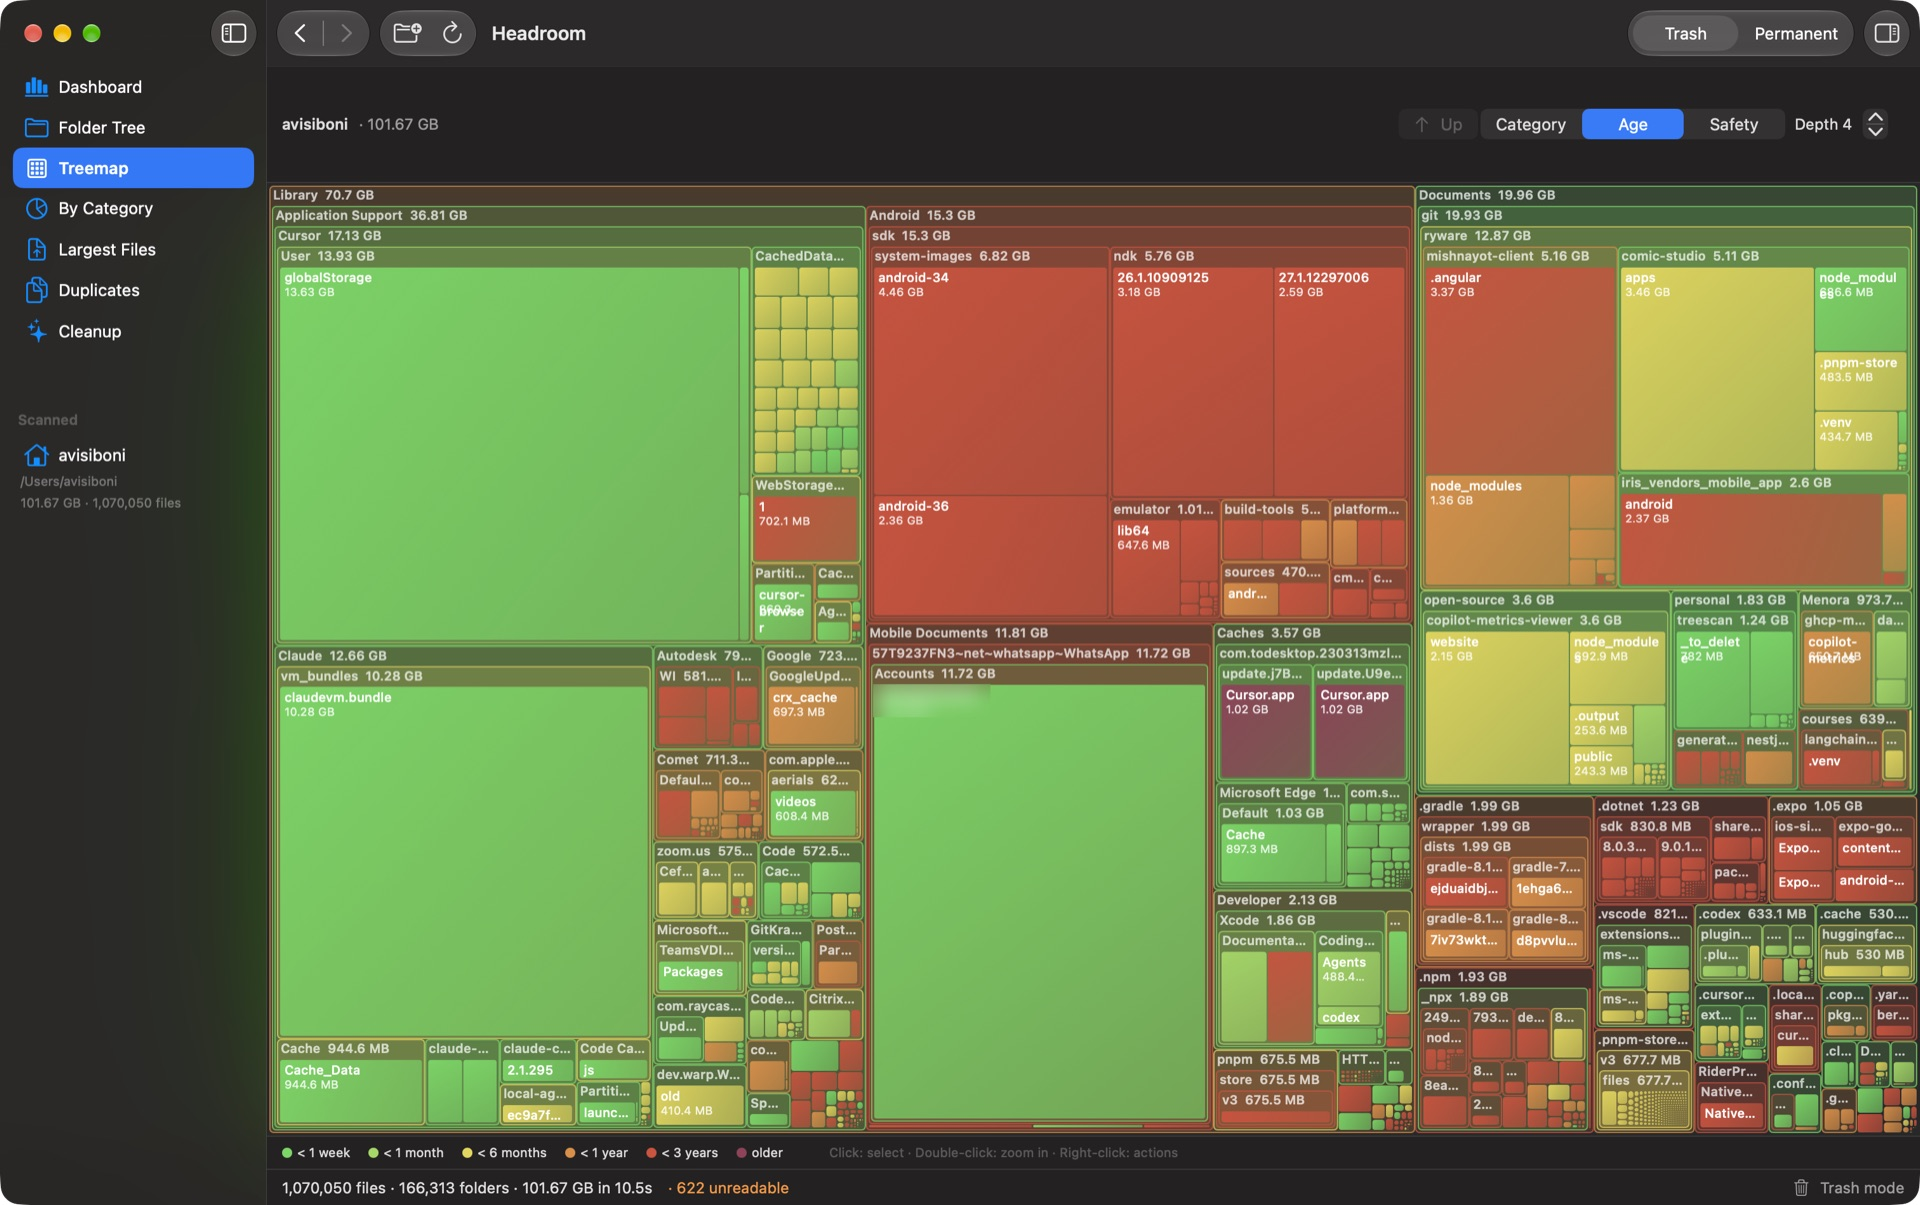
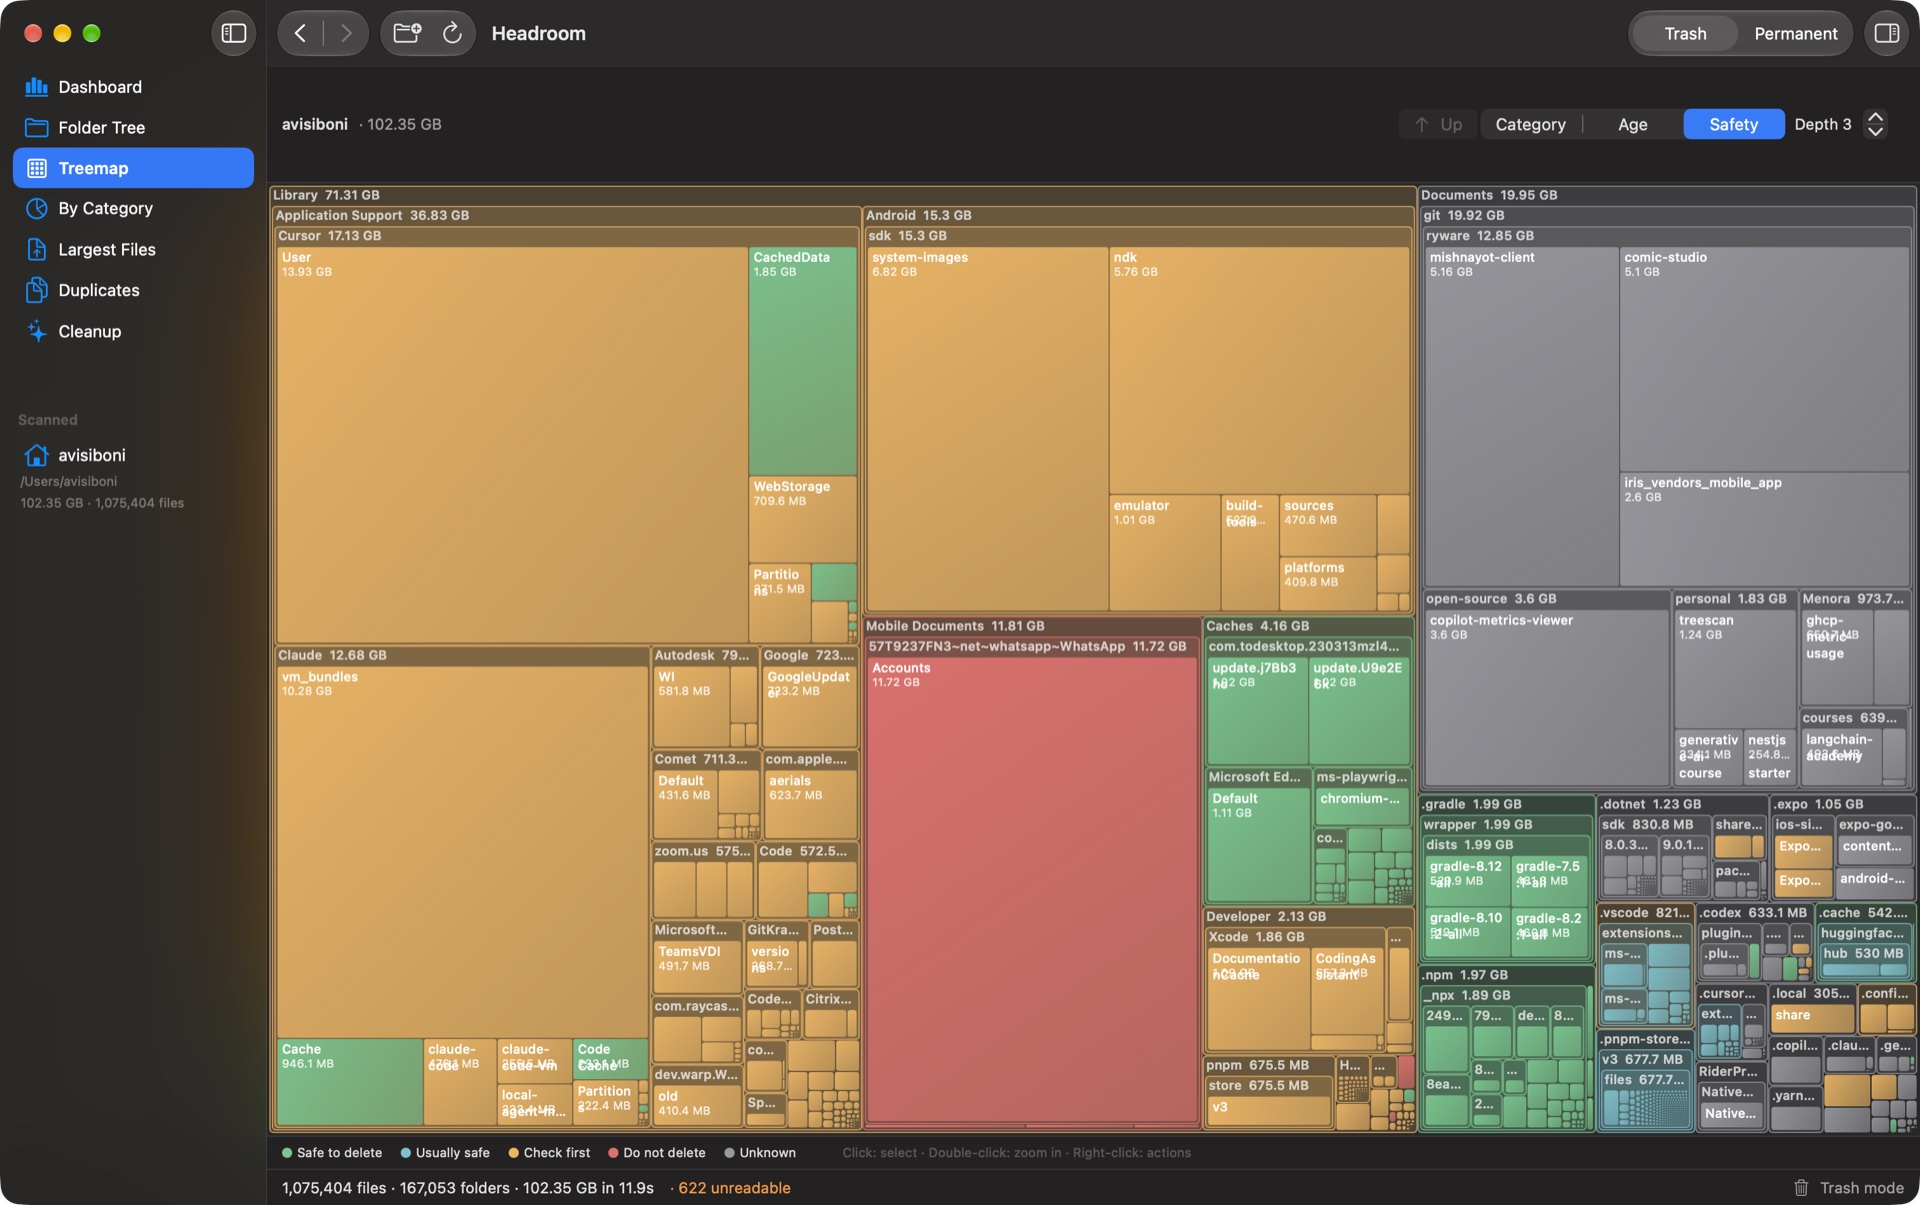
README: treemap shot in Safety colors
The lead screenshot showed the treemap colored by file age, saturated green
and red across the whole map. Retaken in Safety colors at depth 3, which
reads calmer and shows what the app is for: what is safe to delete.

diff --git a/README.md b/README.md
@@ -47,7 +47,7 @@
 brew install ryware/tap/headroom
 ```
 
-![Headroom treemap of a home folder colored by file age](Screenshots/treemap.jpeg)
+![Headroom treemap of a home folder colored by deletion safety: safe caches in green, data to check first in amber, items never to delete in red](Screenshots/treemap.jpeg)
 
 Headroom turns a crowded drive into an understandable map. Scan a folder or disk, identify the largest files and developer caches, inspect what is safe to remove, and clean up without leaving the app.
 
